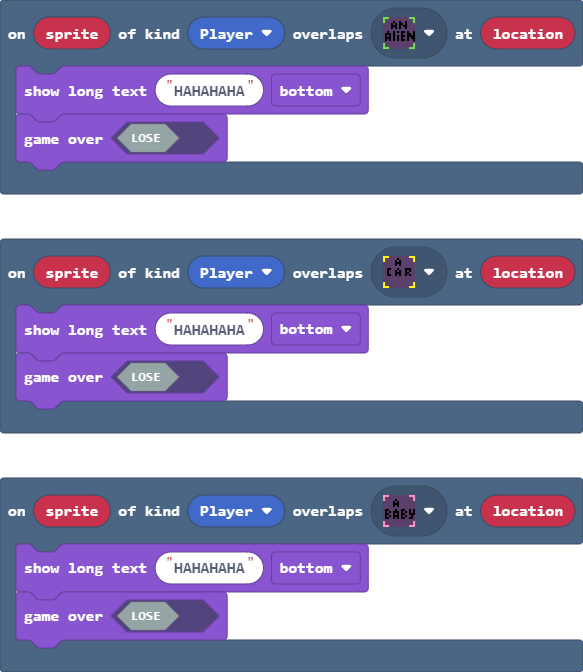
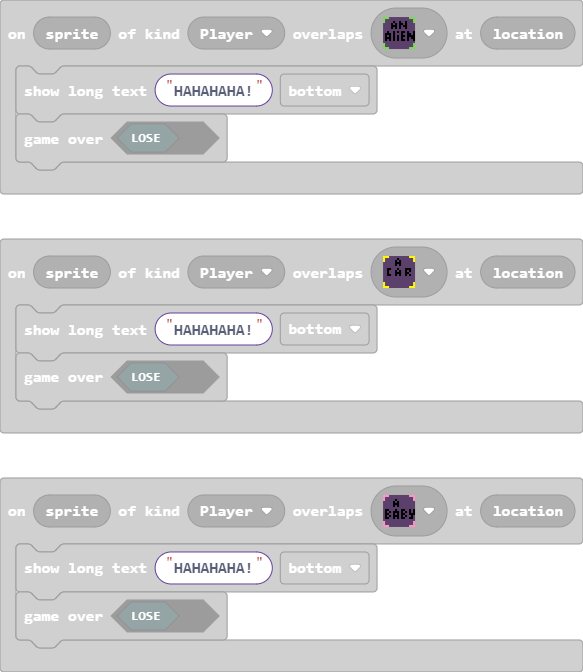
HAHA!

diff --git a/main.ts b/main.ts
@@ -68,7 +68,7 @@ scene.onOverlapTile(SpriteKind.Player, assets.tile`myTile34`, function (sprite, 
     info.changeScoreBy(1)
 })
 scene.onOverlapTile(SpriteKind.Player, assets.tile`myTile15`, function (sprite, location) {
-    game.showLongText("HAHAHAHA", DialogLayout.Bottom)
+    game.showLongText("HAHAHAHA!", DialogLayout.Bottom)
     game.gameOver(false)
 })
 scene.onOverlapTile(SpriteKind.Player, assets.tile`myTile22`, function (sprite, location) {
@@ -179,7 +179,7 @@ scene.onOverlapTile(SpriteKind.Player, assets.tile`myTile7`, function (sprite, l
     info.changeScoreBy(1)
 })
 scene.onOverlapTile(SpriteKind.Player, assets.tile`myTile12`, function (sprite, location) {
-    game.showLongText("HAHAHAHA", DialogLayout.Bottom)
+    game.showLongText("HAHAHAHA!", DialogLayout.Bottom)
     game.gameOver(false)
 })
 controller.left.onEvent(ControllerButtonEvent.Pressed, function () {
@@ -365,7 +365,7 @@ scene.onOverlapTile(SpriteKind.Player, assets.tile`myTile21`, function (sprite, 
     tiles.setCurrentTilemap(tilemap`level23`)
 })
 scene.onOverlapTile(SpriteKind.Player, assets.tile`myTile16`, function (sprite, location) {
-    game.showLongText("HAHAHAHA", DialogLayout.Bottom)
+    game.showLongText("HAHAHAHA!", DialogLayout.Bottom)
     game.gameOver(false)
 })
 scene.onOverlapTile(SpriteKind.Player, assets.tile`myTile20`, function (sprite, location) {
